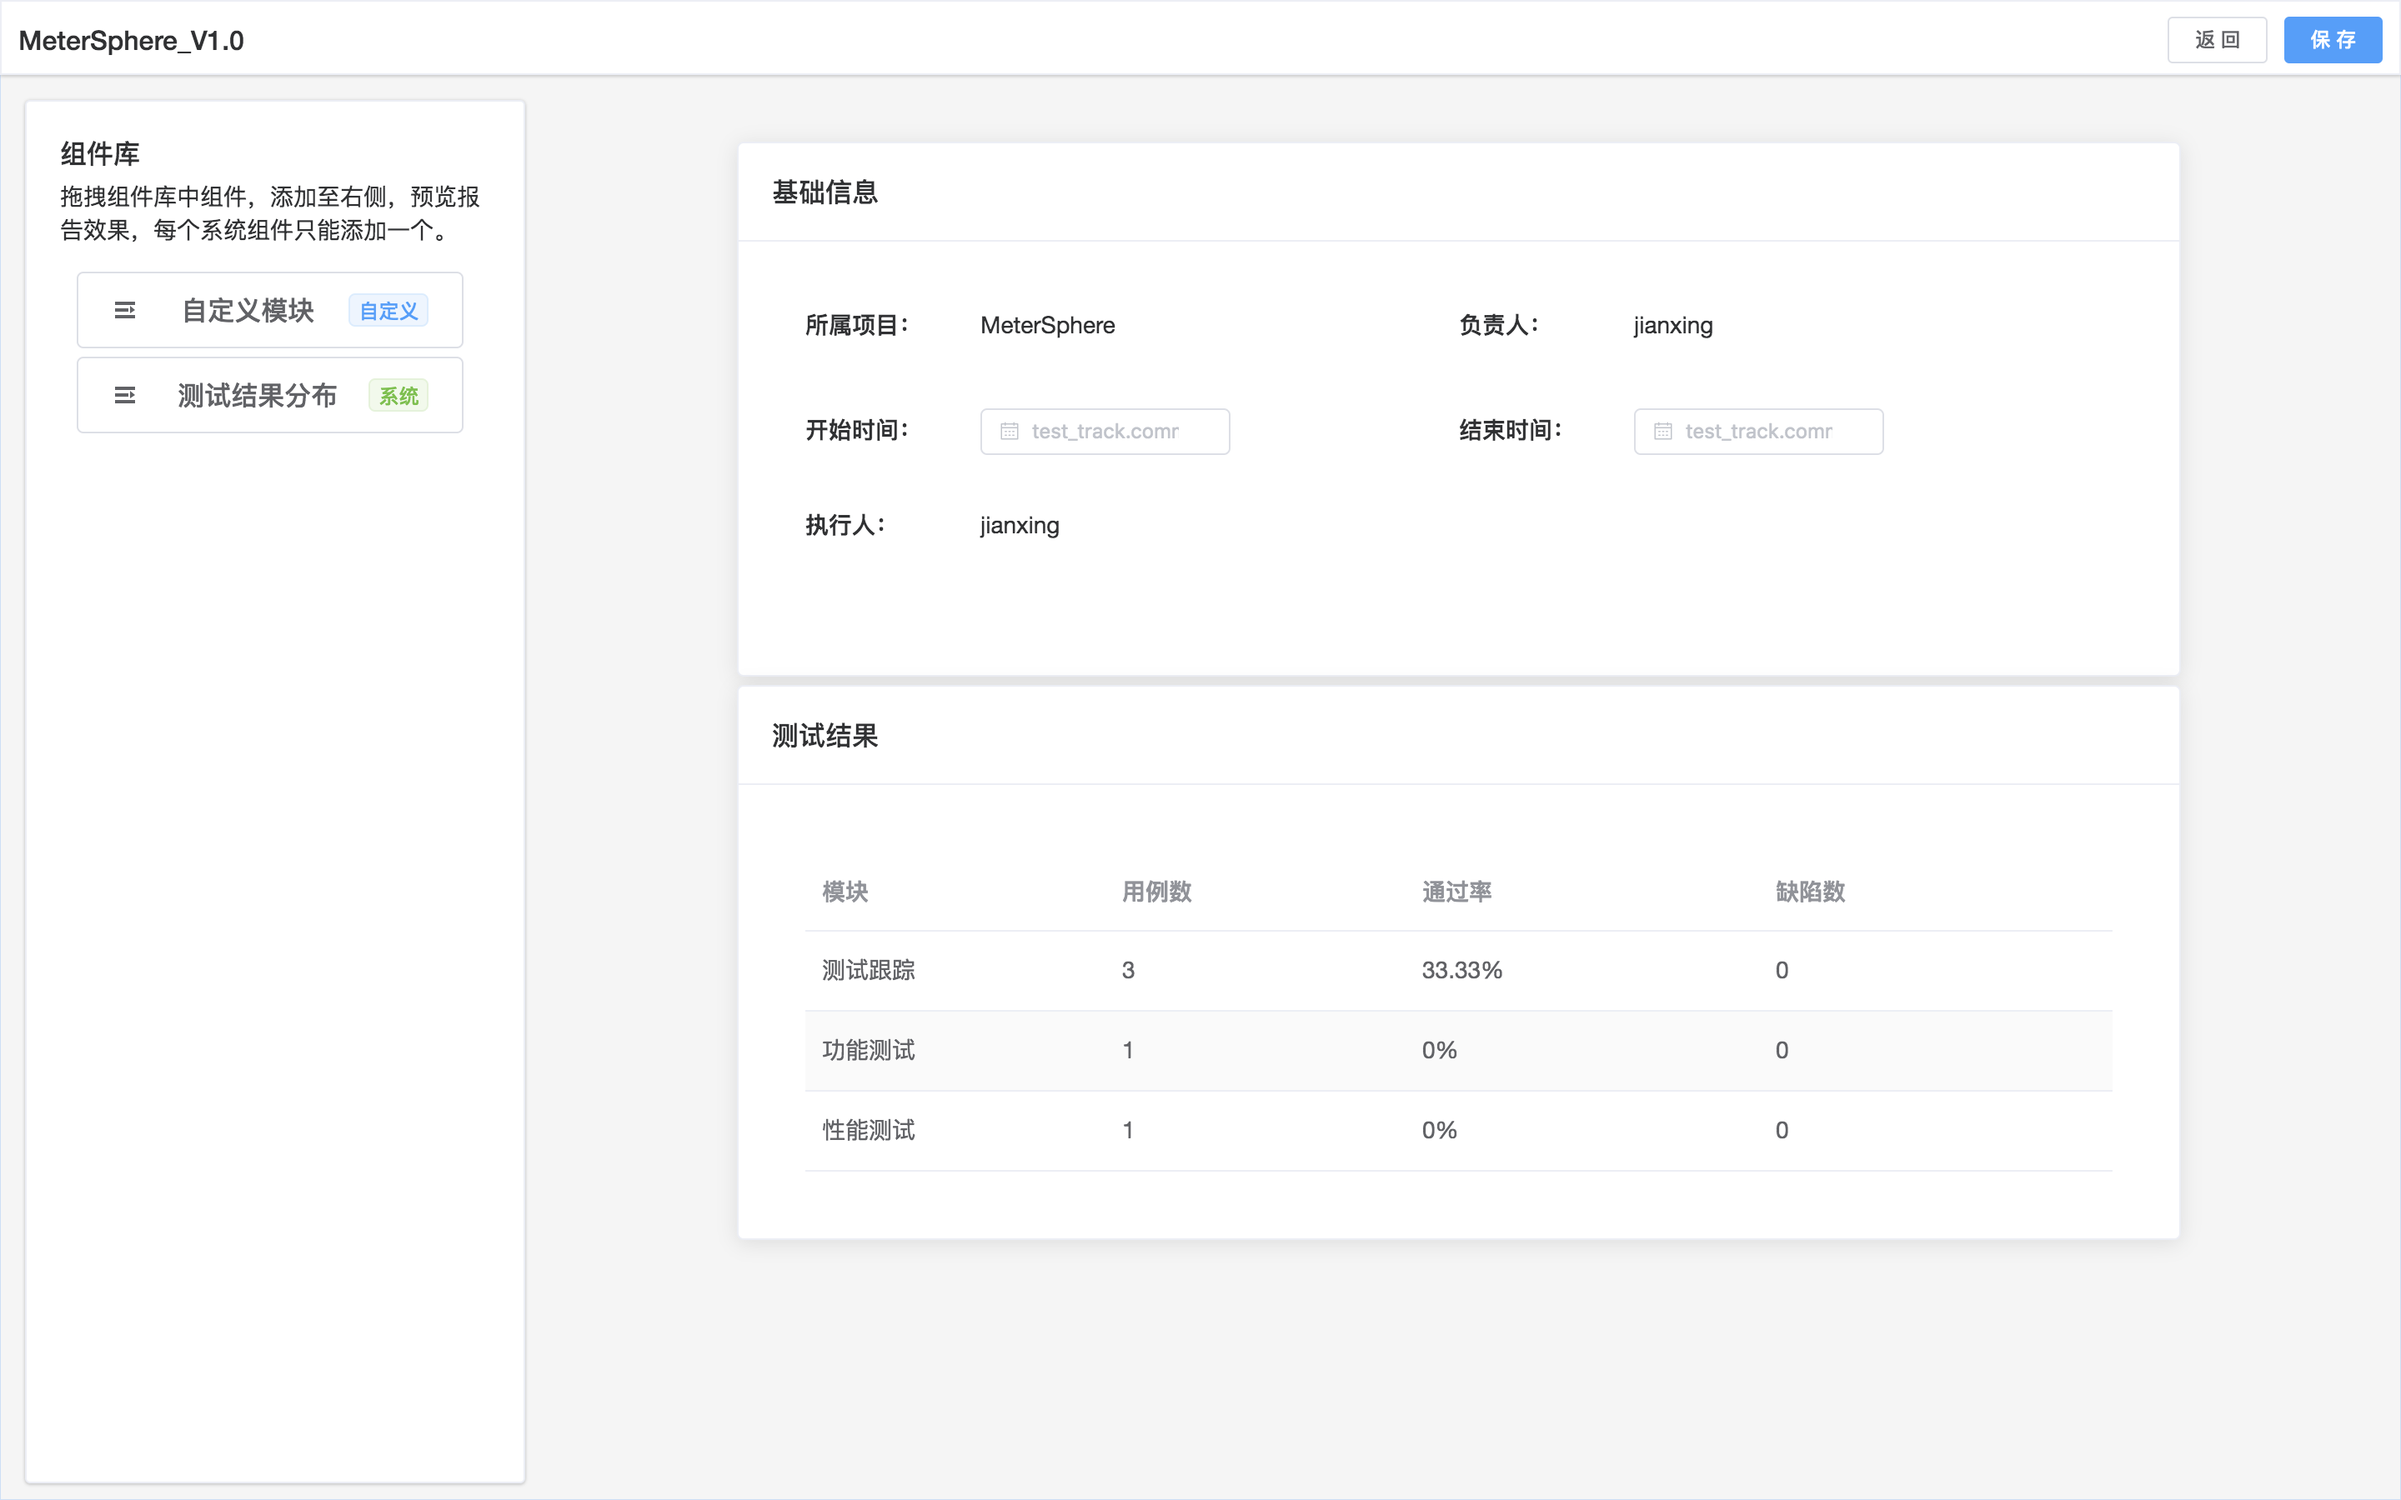
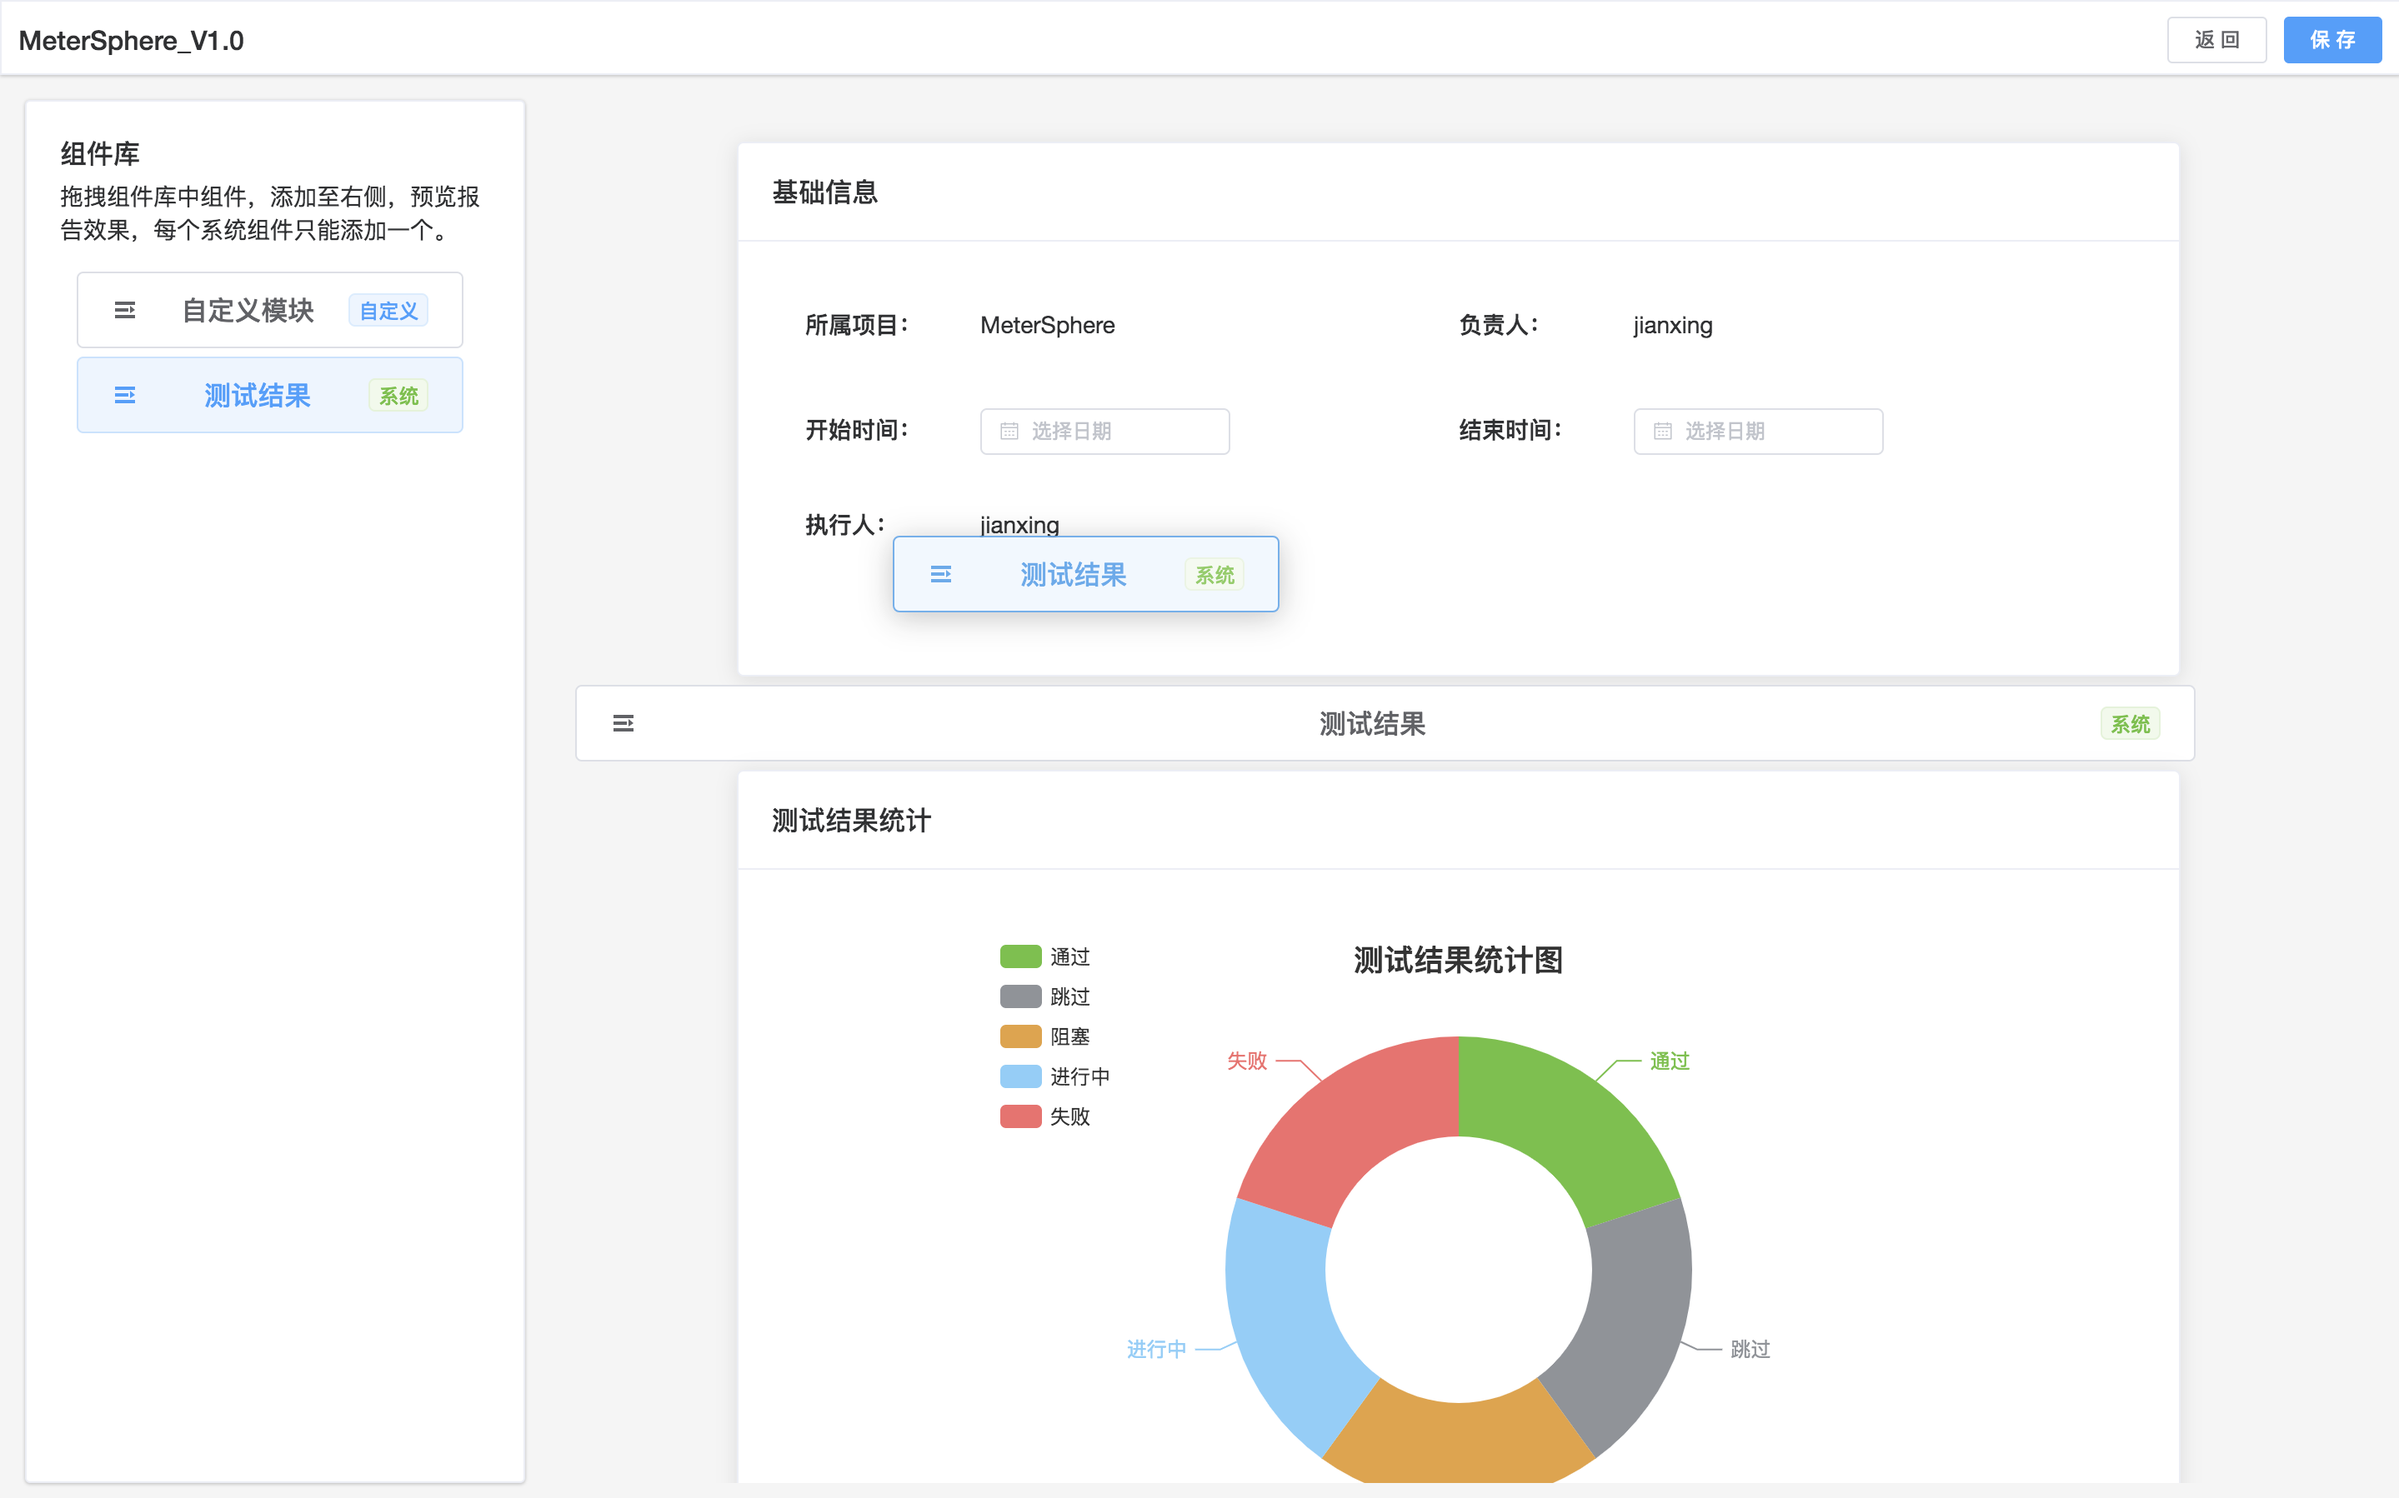
测试跟踪优化

diff --git a/docs/user_manual/test_track.md b/docs/user_manual/test_track.md
@@ -16,6 +16,11 @@
 # 测试用例
 ## 模块管理
 > 页面左侧为模块树，模块属于某个项目，测试用例以模块为单位进行统一管理；模块树支持添加、修改、删除以及拖拽操作
+
+![模块拖拽](../img/track/test-module-drag.jpg)
+
+![创建模块](../img/track/test-module-edit.jpg)
+
 ## 用例列表
 > 页面右侧为用例列表，测试用例属于某个项目；该页面支持测试用例的创建、修改、删除、复制以及Excel导入等操作
 
@@ -26,13 +31,12 @@
 ![导入测试用例](../img/track/test-case-import.jpg)
 
 
-
 # 测试计划
 > 测试计划属于某个项目，并可关联该项目下的测试用例；该页面功能包括测试计划的添加、修改、删除操作；点击某行，跳转至对应计划详情页面
 
-![测试用例](../img/track/plan.jpg)
+![测试计划](../img/track/plan.jpg)
 
-![测试用例](../img/track/plan-create.jpg)
+![创建测试计划](../img/track/plan-create.jpg)
 
 
 # 测试计划详情
@@ -46,12 +50,16 @@
 ![导入测试用例](../img/track/test-paln-test-case-edit.jpg)
 
 ## 测试报告
-> 测试详情页面，可根据模版创建该计划对应的测试报告，模版可在「系统设置」-「工作空间」-「测试报告模版」中由测试管理人员创建；测试报告支持部分内容自定义
+> 测试详情页面中，可根据模版创建该计划对应的测试报告，模版可在「系统设置」-「工作空间」-「测试报告模版」中由测试管理人员创建；
 
-![关联测试用例](../img/track/plan-report-create.jpg)
+![创建测试报告](../img/track/plan-report-create.jpg)
 
-![关联测试用例](../img/track/plan-report-view.jpg)
+### 测试报告详情
+> 根据该测试计划的执行结果生成对应的测试报告详情页面，其中包括基础信息、测试结果列表、测试结果统计等模块
 
-![导入测试用例](../img/track/plan-report-template.jpg)
+![测试报告详情](../img/track/plan-report-view.jpg)
 
+### 编辑测试报告组件
+> 可以从组件库拖拽，自定义测试报告内容
 
+![测试报告编辑](../img/track/plan-report-template.jpg)
